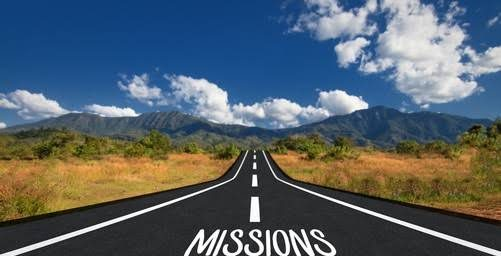
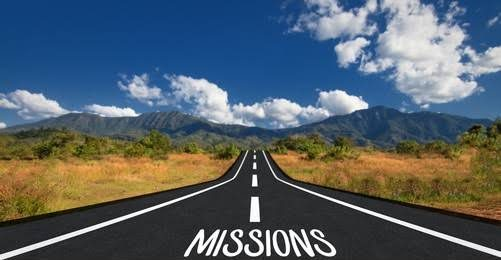
Lighter navy backgrounds; show the full "MISSIONS" text in the mission image
- Carbon (navy) scale one step lighter, overlays and theme-color to match;
  light text keeps >= 5:1 contrast on every dark surface
- Mission image re-cut from the client original: remove only the white
  watermark strip (20px, was 24px and clipped the letters); card anchors
  the image to the bottom so the word is never cropped
- load_client_media replaces a stored file when its content/ source
  changes (size differs) and removes the old copy

diff --git a/static/css/style.css b/static/css/style.css
@@ -18,14 +18,15 @@
    ========================================================================== */
 
 :root {
-    /* Carbon — structural darks, tinted toward the logo navy (#1B1650). */
-    --carbon-950: #07081A;
-    --carbon-900: #0C0E24;
-    --carbon-850: #11132D;
-    --carbon-800: #171A37;
-    --carbon-750: #1F2243;
-    --carbon-700: #292D52;
-    --carbon-600: #373B66;
+    /* Carbon — structural darks, tinted toward the logo navy (#1B1650).
+       یک پله روشنتر از نسخهی قبل (درخواست کارفرما)؛ متن روشن روی همهی آنها کنتراست AA دارد. */
+    --carbon-950: #0F1335;
+    --carbon-900: #151A42;
+    --carbon-850: #1B214C;
+    --carbon-800: #222857;
+    --carbon-750: #2A3062;
+    --carbon-700: #343B70;
+    --carbon-600: #444C83;
 
     /* Titanium — neutral scale for text on dark, borders, dividers. */
     --steel-200: #C8D0DC;
@@ -724,7 +725,7 @@ html.no-js .reveal { opacity: 1; transform: none; }
     position: fixed;
     inset: 0;
     z-index: var(--z-scrim);
-    background: rgba(7, 8, 26, 0.62);
+    background: rgba(15, 19, 53, 0.62);
     opacity: 0;
     visibility: hidden;
     transition: opacity var(--t) var(--ease), visibility var(--t) var(--ease);
@@ -888,7 +889,7 @@ body.nav-open .scrim { opacity: 1; visibility: visible; }
     background:
         radial-gradient(ellipse 60% 80% at 78% 18%, rgba(107, 115, 217, 0.16), transparent 62%),
         radial-gradient(ellipse 70% 60% at 8% 92%, rgba(41, 45, 82, 0.85), transparent 68%),
-        linear-gradient(168deg, var(--carbon-950) 0%, var(--carbon-900) 52%, #0F1230 100%);
+        linear-gradient(168deg, var(--carbon-950) 0%, var(--carbon-900) 52%, #1D2352 100%);
 }
 .hero .mesh { z-index: -1; }
 
@@ -1057,7 +1058,7 @@ html[lang="fa"] .hero__text { line-height: 1.95; max-inline-size: 46em; }
     font-size: var(--fs-mono);
     letter-spacing: 0.12em;
     text-transform: uppercase;
-    background: rgba(7, 8, 26, 0.72);
+    background: rgba(15, 19, 53, 0.72);
     border: 1px solid var(--line-dark-strong);
     border-radius: var(--r-xs);
     color: var(--signal-400);
@@ -1490,7 +1491,7 @@ html[lang="fa"] .hero__text { line-height: 1.95; max-inline-size: 46em; }
     font-size: var(--fs-mono);
     letter-spacing: 0.12em;
     text-transform: uppercase;
-    background: rgba(7, 8, 26, 0.78);
+    background: rgba(15, 19, 53, 0.78);
     border: 1px solid var(--line-dark-strong);
     border-radius: var(--r-xs);
     color: var(--steel-200);
@@ -1667,7 +1668,7 @@ html[lang="fa"] .hero__text { line-height: 1.95; max-inline-size: 46em; }
     z-index: -2;
     background:
         radial-gradient(ellipse 62% 72% at 24% 22%, rgba(107, 115, 217, 0.15), transparent 62%),
-        linear-gradient(160deg, var(--carbon-950), var(--carbon-850) 60%, #0F1230);
+        linear-gradient(160deg, var(--carbon-950), var(--carbon-850) 60%, #1D2352);
 }
 .p-hero .mesh { z-index: -1; background-size: 60px 60px; }
 .p-hero__inner { position: relative; display: grid; gap: var(--s7); padding-block: var(--s7) var(--s9); align-items: center; }
@@ -2867,8 +2868,8 @@ html[lang="fa"] .page-head__text { line-height: 1.95; }
    سمت متن تیرهتر است و سمت نقشهی توانمندی کمی بازتر. */
 .hero--photo::before {
     background:
-        linear-gradient(var(--hero-shade-dir, 90deg), rgba(7, 8, 26, 0.9) 0%, rgba(7, 8, 26, 0.62) 42%, rgba(7, 8, 26, 0.22) 100%),
-        linear-gradient(180deg, rgba(7, 8, 26, 0.1), rgba(7, 8, 26, 0.55)),
+        linear-gradient(var(--hero-shade-dir, 90deg), rgba(15, 19, 53, 0.9) 0%, rgba(15, 19, 53, 0.62) 42%, rgba(15, 19, 53, 0.22) 100%),
+        linear-gradient(180deg, rgba(15, 19, 53, 0.1), rgba(15, 19, 53, 0.55)),
         var(--hero-img) center / cover no-repeat,
         var(--carbon-950);
 }
@@ -2895,7 +2896,7 @@ html[lang="fa"] .page-head__text { line-height: 1.95; }
     inset: 0;
     z-index: -1;
     background:
-        linear-gradient(180deg, rgba(7, 8, 26, 0.78), rgba(21, 24, 72, 0.82)),
+        linear-gradient(180deg, rgba(15, 19, 53, 0.78), rgba(21, 24, 72, 0.82)),
         var(--trust-img, none) center / cover no-repeat;
 }
 .trust__grid {
@@ -2947,7 +2948,7 @@ html[lang="fa"] .page-head__text { line-height: 1.95; }
     position: absolute;
     inset: 0;
     pointer-events: none;
-    background: linear-gradient(180deg, transparent 55%, rgba(7, 8, 26, 0.55));
+    background: linear-gradient(180deg, transparent 55%, rgba(15, 19, 53, 0.55));
 }
 .svc__badge {
     position: absolute;
@@ -3006,7 +3007,7 @@ html[lang="fa"] .page-head__text { line-height: 1.95; }
     inset: 0;
     z-index: -1;
     background:
-        radial-gradient(ellipse 70% 90% at 50% 50%, rgba(7, 8, 26, 0.45), rgba(7, 8, 26, 0.85)),
+        radial-gradient(ellipse 70% 90% at 50% 50%, rgba(15, 19, 53, 0.45), rgba(15, 19, 53, 0.85)),
         var(--slogan-img, none) center / cover no-repeat;
 }
 .slogan__inner { max-inline-size: 52rem; margin-inline: auto; text-align: center; }
@@ -3099,7 +3100,7 @@ html[lang="fa"] .page-head__text { line-height: 1.95; }
     font-size: var(--fs-xs);
     font-weight: 600;
     color: var(--white);
-    background: linear-gradient(180deg, transparent, rgba(7, 8, 26, 0.8));
+    background: linear-gradient(180deg, transparent, rgba(15, 19, 53, 0.8));
     opacity: 0;
     transform: translateY(6px);
     transition: opacity var(--t) var(--ease), transform var(--t) var(--ease);
@@ -3158,11 +3159,14 @@ html[lang="fa"] .page-head__text { line-height: 1.95; }
 }
 .feature__media img { inline-size: 100%; block-size: 100%; object-fit: cover; object-position: center 70%; transition: transform 900ms var(--ease-spring); }
 .feature:hover .feature__media img { transform: scale(1.04); }
+/* تصویری که نوشتهی پایینش باید کامل دیده شود (مأموریت): برش از بالا، نه از پایین؛
+   بزرگنمایی hover هم از پایین لنگر میگیرد تا حروف بیرون نزنند. */
+.feature__media--bottom img { object-position: center bottom; transform-origin: center bottom; }
 
 /* ── ۱۰. سربرگ صفحه با عکس (صفحهی محصولات) ─────────────────────────── */
 .page-head--photo::before {
     background:
-        linear-gradient(var(--hero-shade-dir, 90deg), rgba(7, 8, 26, 0.95), rgba(7, 8, 26, 0.7) 60%, rgba(7, 8, 26, 0.5)),
+        linear-gradient(var(--hero-shade-dir, 90deg), rgba(15, 19, 53, 0.95), rgba(15, 19, 53, 0.7) 60%, rgba(15, 19, 53, 0.5)),
         var(--head-img) center / cover no-repeat,
         var(--carbon-950);
 }
@@ -3181,7 +3185,7 @@ html[lang="fa"] .page-head__text { line-height: 1.95; }
     color: var(--white);
 }
 .lightbox[open] { display: grid; place-items: center; }
-.lightbox::backdrop { background: rgba(7, 8, 26, 0.9); backdrop-filter: blur(6px); }
+.lightbox::backdrop { background: rgba(15, 19, 53, 0.9); backdrop-filter: blur(6px); }
 .lightbox__figure { display: grid; gap: var(--s3); justify-items: center; max-block-size: 100%; margin: 0; }
 .lightbox__img {
     max-inline-size: min(92vw, 1400px);

diff --git a/templates/base.html b/templates/base.html
@@ -8,7 +8,7 @@
 <head>
     <meta charset="UTF-8">
     <meta name="viewport" content="width=device-width, initial-scale=1">
-    <meta name="theme-color" content="#07081A">
+    <meta name="theme-color" content="#0F1335">
 
     <title>{% block title %}{{ global_company.name|default:_("اطلس") }}{% endblock %}</title>
 
@@ -50,7 +50,7 @@
         <link rel="stylesheet" href="https://cdn.jsdelivr.net/npm/@fontsource-variable/inter@5.3.0/index.min.css">
     {% endif %}
     <link rel="stylesheet" href="https://cdn.jsdelivr.net/npm/@fontsource-variable/jetbrains-mono@5.3.0/index.min.css">
-    <link rel="stylesheet" href="{% static 'css/style.css' %}?v=20260930-4">
+    <link rel="stylesheet" href="{% static 'css/style.css' %}?v=20261001-1">
 
     {% include 'partials/structured-data.html' %}
     {% block structured_data %}{% endblock %}
@@ -91,7 +91,7 @@
         <svg class="icon" aria-hidden="true"><use href="#icon-arrow-up"></use></svg>
     </button>
 
-    <script src="{% static 'js/main.js' %}?v=20260930-4" defer></script>
+    <script src="{% static 'js/main.js' %}?v=20261001-1" defer></script>
     {% block extra_js %}{% endblock %}
 </body>
 </html>

diff --git a/templates/core/about.html b/templates/core/about.html
@@ -90,7 +90,7 @@
             {% if company.mission_text %}
                 <article class="feature reveal">
                     {% if company.mission_image %}
-                        <figure class="feature__media"><img src="{{ company.mission_image.url }}" alt="{% trans 'مأموریت' %}" loading="lazy" width="800" height="420"></figure>
+                        <figure class="feature__media feature__media--bottom"><img src="{{ company.mission_image.url }}" alt="{% trans 'مأموریت' %}" loading="lazy" width="800" height="420"></figure>
                     {% endif %}
                     <div class="feature__head">
                         <span class="glyph glyph--lg"><svg class="icon" aria-hidden="true"><use href="#icon-target"></use></svg></span>

diff --git a/core/management/commands/load_client_media.py b/core/management/commands/load_client_media.py
@@ -146,10 +146,26 @@ def already(fieldfile, path):
     return bool(fieldfile) and Path(fieldfile.name).stem.startswith(path.stem)
 
 
-def attach(fieldfile, path):
-    """فایل را در فیلد مینشاند؛ اگر قبلاً نشسته باشد کاری نمیکند. خروجی: آیا تغییر کرد."""
-    if already(fieldfile, path):
+def _same_size(fieldfile, path):
+    try:
+        return fieldfile.size == path.stat().st_size
+    except OSError:          # فایل انبار گم شده — دوباره کپی شود
         return False
+
+
+def attach(fieldfile, path, keep_old=False):
+    """
+    فایل را در فیلد مینشاند و خروجی میدهد که آیا تغییری رخ داد.
+
+    اگر همین فایل با همین حجم قبلاً نشسته باشد کاری نمیکند؛ اگر فایل منبع
+    در content/client عوض شده باشد (حجم متفاوت)، نسخهی تازه جایگزین و فایل
+    قدیمی از انبار حذف میشود (مگر keep_old، برای فایلهای مشترک).
+    """
+    if already(fieldfile, path):
+        if _same_size(fieldfile, path):
+            return False
+        if not keep_old:
+            fieldfile.delete(save=False)
     with path.open('rb') as handle:
         fieldfile.save(path.name, File(handle), save=False)
     return True
@@ -261,7 +277,7 @@ class Command(BaseCommand):
                 if path in shared_files:
                     doc.file.name = shared_files[path]
                 else:
-                    attach(doc.file, path)
+                    attach(doc.file, path, keep_old=True)
                     shared_files[path] = doc.file.name
                 doc.order = index * 10
                 doc.save()
